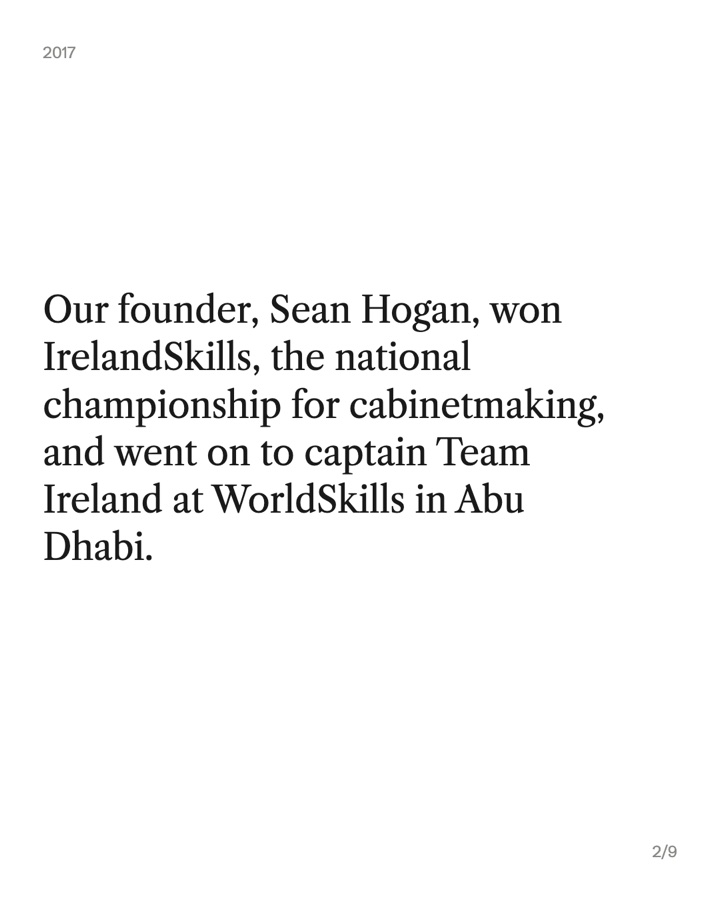
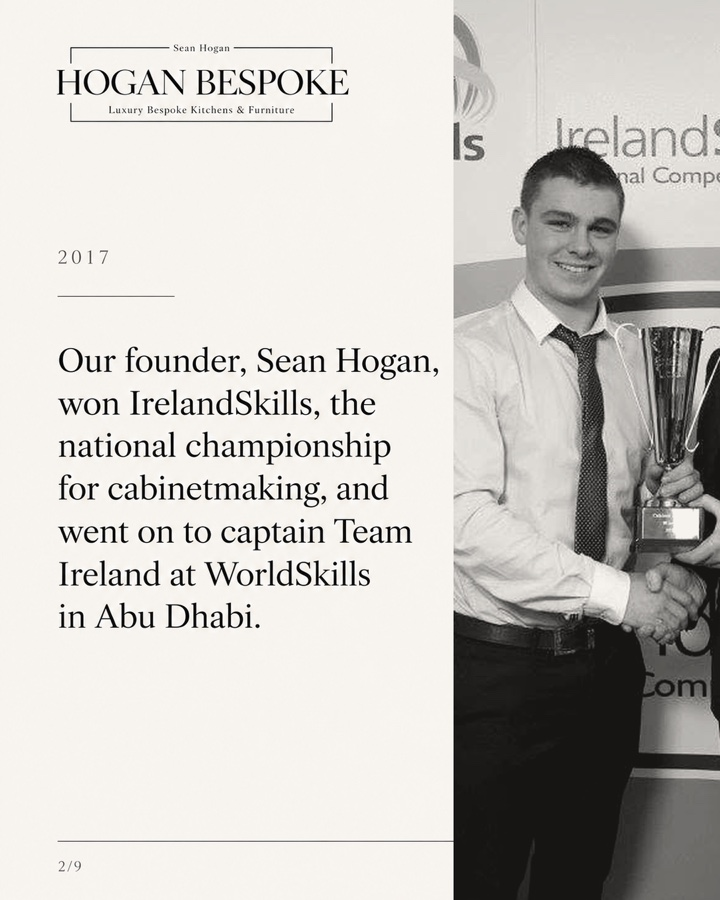
Hogan post 1: slide 2 with the IrelandSkills photo

diff --git a/public/approve/hogan-bespoke-x96pyh/index.html b/public/approve/hogan-bespoke-x96pyh/index.html
@@ -37,7 +37,7 @@
     <span>Eli Fátima · Irish Business Boosters · hello@irishbusinessboosters.com</span>
   </footer>
 </div>
-<script id="approval-data" type="application/json">{"page": "hogan-bespoke-x96pyh", "client": "Sean", "username": "hogan_bespoke_furniture", "avatar": "logo.png", "location": "Waterford, Ireland", "profile": {"id": "profile", "title": "New bio and highlights", "chips": ["Pick one bio"], "intro": "This is how your profile will look by the end of November: the new bio, the new highlight covers and the new posts at the top.", "about": "Both bios say who you are, what you make, and that you fit all over Ireland. Pick the one that sounds more like you.", "name": "Hogan Bespoke | Kitchens Ireland", "category": "Kitchen & cabinet designer", "link": "hoganbespokefurniture.com", "stats": ["175", "1,407", "609"], "choices": [{"id": "Bio A", "label": "Bio A · leads with the title", "bio": "IrelandSkills cabinetmaking champion 🏆\nBespoke kitchens, wardrobes & media walls\nHandmade in Waterford · Fitted all over Ireland\n👇 Get a quote"}, {"id": "Bio B", "label": "Bio B · softer", "bio": "Award-winning cabinetmaker 🏆\nKitchens, wardrobes, media walls & stairs\nHandmade in Waterford · Fitted all over Ireland\n👇 Get a quote"}], "highlights": [{"src": "covers/light-01-our-story.jpg", "name": "Our Story"}, {"src": "covers/light-02-kitchens.jpg", "name": "Kitchens"}, {"src": "covers/light-03-reviews.jpg", "name": "Reviews"}, {"src": "covers/light-04-wardrobes.jpg", "name": "Wardrobes"}, {"src": "covers/light-05-media-walls.jpg", "name": "Media Walls"}, {"src": "covers/light-06-commercial.jpg", "name": "Commercial"}, {"src": "covers/light-07-process.jpg", "name": "Process"}, {"src": "covers/light-08-joinery.jpg", "name": "Joinery"}, {"src": "covers/light-09-get-a-quote.jpg", "name": "Get a Quote"}], "grid": ["posts/08-commercial.jpg?v=3", "posts/07-christmas-media-wall.jpg?v=3", "posts/06-wardrobes.jpg?v=3", "posts/05-workshop.jpg?v=3", "posts/04-kitchens.jpg?v=3", "posts/03-the-reveal.jpg?v=3", "posts/02-what-we-make.jpg?v=3", "posts/01-slide-01.jpg?v=7", "posts/old-2026-trim-castle-hotel.jpg?v=3"]}, "postsTitle": "Your November posts", "postsIntro": "Eight posts, Mondays and Thursdays. Post 1 is fully designed; for the others you're seeing the cover, and we'll finish the slides as soon as the photos and details are in. The yellow bits are details we still need from you.", "posts": [{"id": "post-01", "date": "2026-11-02", "kind": "carousel", "title": "Our story", "chips": ["Carousel · 9 slides", "Pinned to the top"], "images": ["posts/01-slide-01.jpg?v=7", "posts/01-slide-02.jpg?v=3", "posts/01-slide-03.jpg?v=3", "posts/01-slide-04.jpg?v=3", "posts/01-slide-05.jpg?v=3", "posts/01-slide-06.jpg?v=3", "posts/01-slide-07.jpg?v=3", "posts/01-slide-08.jpg?v=3", "posts/01-slide-09.jpg?v=3"], "about": "Our first post: the story of the company, from the national title in 2017 to opening the workshop in August 2020 and everything we've built since. Mostly photos, with a short caption on each.", "need": "A photo from IrelandSkills 2017 for slide 3. Any old phone photo is fine.", "caption": "Our story, from a national title to kitchens all over Ireland.\n\nIn 2017, our founder Sean Hogan won IrelandSkills, the national championship for cabinetmaking, and went on to captain Team Ireland at WorldSkills in Abu Dhabi.\n\nIn August 2020, in the middle of a pandemic, we opened our workshop in Waterford.\n\nSince then we've designed and built kitchens, wardrobes, media walls and stairs for homes all over Ireland, and fitted out hotels and businesses like Trim Castle Hotel.\n\nEverything is still made by hand in our own workshop, to the same standard.\n\nOver the coming weeks we'll show you more of the work, and how it's made. Glad to have you here.", "tags": "#bespokekitchens #irishkitchens #handmadeinireland #bespokefurniture #waterford"}, {"id": "post-02", "date": "2026-11-05", "kind": "carousel", "title": "What we make", "chips": ["Carousel · 7 slides", "Pinned to the top", "Cover shown"], "images": ["posts/02-what-we-make.jpg?v=3"], "about": "A clear menu of everything you do, one slide per service. It stays pinned so anyone landing on your profile sees it straight away.", "need": "Is anything missing from the list? And do you do handleless kitchens?", "caption": "Everything we make is designed and built for one room only. Here's what that covers:\n\n· Kitchens: shaker, in-frame and handleless, painted or natural wood\n· Wardrobes: fitted, sliding and walk-in\n· Media walls: TV units, fireplaces, shelving and lighting\n· Stairs & joinery: staircases, drinks units, panelling and doors\n· Home offices and utility rooms\n· Commercial fit-outs: hotels, bars, offices and public buildings\n\nWe fit all over Ireland. Tell us what you're planning: send us a message or tap the link in our bio.", "tags": "#bespokefurniture #bespokekitchens #fittedwardrobes #mediawall #madeinireland"}, {"id": "post-03", "date": "2026-11-09", "kind": "reel", "length": "15 s", "title": "The reveal: navy kitchen", "chips": ["Reel"], "images": ["posts/03-the-reveal.jpg?v=3"], "about": "A slow walk into the navy kitchen, past the island, a drawer opening and closing softly. Calm music, no talking.", "need": "A video of this kitchen, if you have one (even a short phone clip). If not, I'll make it from the photos. Roughly how many weeks did it take?", "caption": "Every one of our kitchens is designed and built for one room only.\n\nThis one: navy painted shaker doors, premium stone worktops and a waterfall island. [X] weeks from first measure to final fit.\n\nPlanning a kitchen for 2027? Send us a message or tap the link in our bio.", "tags": "#bespokekitchens #navykitchen #irishkitchens #kitchendesignireland"}, {"id": "post-04", "date": "2026-11-12", "kind": "carousel", "title": "What we make: Kitchens", "chips": ["Carousel · 6 slides", "Series: What we make", "Cover shown"], "images": ["posts/04-kitchens.jpg?v=3"], "about": "The first of the \"What we make\" series. Slides: the styles (shaker, in-frame, handleless) · the materials · what's included · how long it takes · how to start.", "need": "How long does a kitchen usually take, from first visit to fitted? And which worktops do you use most?", "caption": "What goes into a Hogan Bespoke kitchen?\n\n· The style: shaker, in-frame or handleless\n· The wood: solid oak, ash or walnut, painted or natural\n· The worktop: [quartz, stone or solid wood]\n· The design: you see it in 3D before we cut a single board\n· The timing: around [X] weeks from first visit to final fit\n\nAll made in our workshop in Waterford and fitted by our own team, anywhere in Ireland.\n\nSwipe for the details 👉", "tags": "#bespokekitchens #shakerkitchen #irishkitchens #kitchendesignireland"}, {"id": "post-05", "date": "2026-11-16", "kind": "reel", "length": "15–20 s", "title": "From the workshop", "chips": ["Reel"], "images": ["posts/05-workshop.jpg?v=3"], "about": "Quick clips of hands and timber: cutting, shaping, sanding and assembling a door, with the real workshop sound. Ends on the finished piece.", "need": "We film this together on Tuesday 27 October. Five minutes at the bench is plenty.", "caption": "Before it's a kitchen door, it's a board of [timber] on our bench in Waterford.\n\nWe cut, shape, sand and assemble everything ourselves, so we control every millimetre, and nothing arrives on site that we haven't checked by hand.", "tags": "#handmadeinireland #cabinetmaker #bespokefurniture #waterford"}, {"id": "post-06", "date": "2026-11-19", "kind": "carousel", "title": "What we make: Wardrobes", "chips": ["Carousel · 6 slides", "Series: What we make", "Cover shown"], "images": ["posts/06-wardrobes.jpg?v=3"], "about": "Series, part 2. Slides: fitted · sliding · walk-in · children's rooms · what goes inside (rails, drawers, shoe racks, lighting).", "caption": "Fitted, sliding or walk-in: every wardrobe we make is built around the room and what goes in it.\n\nInside, you choose: hanging rails and pull-down rails, drawers, shoe racks, shelving and LED lighting.\n\nSwipe to see the options 👉\n\nThinking about a wardrobe? Send us a message with a photo of the space.", "tags": "#fittedwardrobes #walkinwardrobe #bespokefurniture #irishhomes"}, {"id": "post-07", "date": "2026-11-23", "kind": "reel", "length": "10–15 s", "title": "The room you'll spend Christmas in", "chips": ["Reel", "Christmas"], "images": ["posts/07-christmas-media-wall.jpg?v=3"], "about": "Starts on a detail (the LED light, a shelf) and opens out to the whole media wall, with the fire on.", "need": "A video of a media wall with the lights or fire on, if you have one.", "caption": "The room everyone ends up in at Christmas.\n\nThis media wall hides every cable, frames the fire and lights up the shelves, all built to fit the room to the millimetre.\n\nToo late for this Christmas? Plenty of time for the next one. Send us a message.", "tags": "#mediawall #livingroomideas #irishhomes #christmasathome"}, {"id": "post-08", "date": "2026-11-26", "kind": "carousel", "title": "What we make: Commercial", "chips": ["Carousel · 6 slides", "Series: What we make", "Cover shown"], "images": ["posts/08-commercial.jpg?v=3"], "about": "Series, part 3: the Trim Castle Hotel fit-out, with the other businesses you've built for on the last slide.", "need": "Are you happy for us to name The Fitzwilton, Bausch + Lomb, Clonmel Credit Union and the Garda station? I can leave out any of them.", "caption": "It's not only homes.\n\nWe recently completed the fit-out at Trim Castle Hotel: [what we built, e.g. the bar and back bar], made in our Waterford workshop and fitted on site.\n\nOver the years we've also built for The Fitzwilton Hotel, Bausch + Lomb, Clonmel Credit Union and Waterford Garda Station.\n\nPlanning a fit-out? Email sales@hoganbespoke.com.", "tags": "#commercialjoinery #hotelinteriors #shopfitting #madeinireland"}]}</script>
+<script id="approval-data" type="application/json">{"page": "hogan-bespoke-x96pyh", "client": "Sean", "username": "hogan_bespoke_furniture", "avatar": "logo.png", "location": "Waterford, Ireland", "profile": {"id": "profile", "title": "New bio and highlights", "chips": ["Pick one bio"], "intro": "This is how your profile will look by the end of November: the new bio, the new highlight covers and the new posts at the top.", "about": "Both bios say who you are, what you make, and that you fit all over Ireland. Pick the one that sounds more like you.", "name": "Hogan Bespoke | Kitchens Ireland", "category": "Kitchen & cabinet designer", "link": "hoganbespokefurniture.com", "stats": ["175", "1,407", "609"], "choices": [{"id": "Bio A", "label": "Bio A · leads with the title", "bio": "IrelandSkills cabinetmaking champion 🏆\nBespoke kitchens, wardrobes & media walls\nHandmade in Waterford · Fitted all over Ireland\n👇 Get a quote"}, {"id": "Bio B", "label": "Bio B · softer", "bio": "Award-winning cabinetmaker 🏆\nKitchens, wardrobes, media walls & stairs\nHandmade in Waterford · Fitted all over Ireland\n👇 Get a quote"}], "highlights": [{"src": "covers/light-01-our-story.jpg", "name": "Our Story"}, {"src": "covers/light-02-kitchens.jpg", "name": "Kitchens"}, {"src": "covers/light-03-reviews.jpg", "name": "Reviews"}, {"src": "covers/light-04-wardrobes.jpg", "name": "Wardrobes"}, {"src": "covers/light-05-media-walls.jpg", "name": "Media Walls"}, {"src": "covers/light-06-commercial.jpg", "name": "Commercial"}, {"src": "covers/light-07-process.jpg", "name": "Process"}, {"src": "covers/light-08-joinery.jpg", "name": "Joinery"}, {"src": "covers/light-09-get-a-quote.jpg", "name": "Get a Quote"}], "grid": ["posts/08-commercial.jpg?v=3", "posts/07-christmas-media-wall.jpg?v=3", "posts/06-wardrobes.jpg?v=3", "posts/05-workshop.jpg?v=3", "posts/04-kitchens.jpg?v=3", "posts/03-the-reveal.jpg?v=3", "posts/02-what-we-make.jpg?v=3", "posts/01-slide-01.jpg?v=8", "posts/old-2026-trim-castle-hotel.jpg?v=3"]}, "postsTitle": "Your November posts", "postsIntro": "Eight posts, Mondays and Thursdays. Post 1 is fully designed; for the others you're seeing the cover, and we'll finish the slides as soon as the photos and details are in. The yellow bits are details we still need from you.", "posts": [{"id": "post-01", "date": "2026-11-02", "kind": "carousel", "title": "Our story", "chips": ["Carousel · 9 slides", "Pinned to the top"], "images": ["posts/01-slide-01.jpg?v=8", "posts/01-slide-02.jpg?v=8", "posts/01-slide-03.jpg?v=3", "posts/01-slide-04.jpg?v=3", "posts/01-slide-05.jpg?v=3", "posts/01-slide-06.jpg?v=3", "posts/01-slide-07.jpg?v=3", "posts/01-slide-08.jpg?v=3", "posts/01-slide-09.jpg?v=3"], "about": "Our first post: the story of the company, from the national title in 2017 to opening the workshop in August 2020 and everything we've built since. Mostly photos, with a short caption on each.", "need": "A photo from IrelandSkills 2017 for slide 3. Any old phone photo is fine.", "caption": "Our story, from a national title to kitchens all over Ireland.\n\nIn 2017, our founder Sean Hogan won IrelandSkills, the national championship for cabinetmaking, and went on to captain Team Ireland at WorldSkills in Abu Dhabi.\n\nIn August 2020, in the middle of a pandemic, we opened our workshop in Waterford.\n\nSince then we've designed and built kitchens, wardrobes, media walls and stairs for homes all over Ireland, and fitted out hotels and businesses like Trim Castle Hotel.\n\nEverything is still made by hand in our own workshop, to the same standard.\n\nOver the coming weeks we'll show you more of the work, and how it's made. Glad to have you here.", "tags": "#bespokekitchens #irishkitchens #handmadeinireland #bespokefurniture #waterford"}, {"id": "post-02", "date": "2026-11-05", "kind": "carousel", "title": "What we make", "chips": ["Carousel · 7 slides", "Pinned to the top", "Cover shown"], "images": ["posts/02-what-we-make.jpg?v=3"], "about": "A clear menu of everything you do, one slide per service. It stays pinned so anyone landing on your profile sees it straight away.", "need": "Is anything missing from the list? And do you do handleless kitchens?", "caption": "Everything we make is designed and built for one room only. Here's what that covers:\n\n· Kitchens: shaker, in-frame and handleless, painted or natural wood\n· Wardrobes: fitted, sliding and walk-in\n· Media walls: TV units, fireplaces, shelving and lighting\n· Stairs & joinery: staircases, drinks units, panelling and doors\n· Home offices and utility rooms\n· Commercial fit-outs: hotels, bars, offices and public buildings\n\nWe fit all over Ireland. Tell us what you're planning: send us a message or tap the link in our bio.", "tags": "#bespokefurniture #bespokekitchens #fittedwardrobes #mediawall #madeinireland"}, {"id": "post-03", "date": "2026-11-09", "kind": "reel", "length": "15 s", "title": "The reveal: navy kitchen", "chips": ["Reel"], "images": ["posts/03-the-reveal.jpg?v=3"], "about": "A slow walk into the navy kitchen, past the island, a drawer opening and closing softly. Calm music, no talking.", "need": "A video of this kitchen, if you have one (even a short phone clip). If not, I'll make it from the photos. Roughly how many weeks did it take?", "caption": "Every one of our kitchens is designed and built for one room only.\n\nThis one: navy painted shaker doors, premium stone worktops and a waterfall island. [X] weeks from first measure to final fit.\n\nPlanning a kitchen for 2027? Send us a message or tap the link in our bio.", "tags": "#bespokekitchens #navykitchen #irishkitchens #kitchendesignireland"}, {"id": "post-04", "date": "2026-11-12", "kind": "carousel", "title": "What we make: Kitchens", "chips": ["Carousel · 6 slides", "Series: What we make", "Cover shown"], "images": ["posts/04-kitchens.jpg?v=3"], "about": "The first of the \"What we make\" series. Slides: the styles (shaker, in-frame, handleless) · the materials · what's included · how long it takes · how to start.", "need": "How long does a kitchen usually take, from first visit to fitted? And which worktops do you use most?", "caption": "What goes into a Hogan Bespoke kitchen?\n\n· The style: shaker, in-frame or handleless\n· The wood: solid oak, ash or walnut, painted or natural\n· The worktop: [quartz, stone or solid wood]\n· The design: you see it in 3D before we cut a single board\n· The timing: around [X] weeks from first visit to final fit\n\nAll made in our workshop in Waterford and fitted by our own team, anywhere in Ireland.\n\nSwipe for the details 👉", "tags": "#bespokekitchens #shakerkitchen #irishkitchens #kitchendesignireland"}, {"id": "post-05", "date": "2026-11-16", "kind": "reel", "length": "15–20 s", "title": "From the workshop", "chips": ["Reel"], "images": ["posts/05-workshop.jpg?v=3"], "about": "Quick clips of hands and timber: cutting, shaping, sanding and assembling a door, with the real workshop sound. Ends on the finished piece.", "need": "We film this together on Tuesday 27 October. Five minutes at the bench is plenty.", "caption": "Before it's a kitchen door, it's a board of [timber] on our bench in Waterford.\n\nWe cut, shape, sand and assemble everything ourselves, so we control every millimetre, and nothing arrives on site that we haven't checked by hand.", "tags": "#handmadeinireland #cabinetmaker #bespokefurniture #waterford"}, {"id": "post-06", "date": "2026-11-19", "kind": "carousel", "title": "What we make: Wardrobes", "chips": ["Carousel · 6 slides", "Series: What we make", "Cover shown"], "images": ["posts/06-wardrobes.jpg?v=3"], "about": "Series, part 2. Slides: fitted · sliding · walk-in · children's rooms · what goes inside (rails, drawers, shoe racks, lighting).", "caption": "Fitted, sliding or walk-in: every wardrobe we make is built around the room and what goes in it.\n\nInside, you choose: hanging rails and pull-down rails, drawers, shoe racks, shelving and LED lighting.\n\nSwipe to see the options 👉\n\nThinking about a wardrobe? Send us a message with a photo of the space.", "tags": "#fittedwardrobes #walkinwardrobe #bespokefurniture #irishhomes"}, {"id": "post-07", "date": "2026-11-23", "kind": "reel", "length": "10–15 s", "title": "The room you'll spend Christmas in", "chips": ["Reel", "Christmas"], "images": ["posts/07-christmas-media-wall.jpg?v=3"], "about": "Starts on a detail (the LED light, a shelf) and opens out to the whole media wall, with the fire on.", "need": "A video of a media wall with the lights or fire on, if you have one.", "caption": "The room everyone ends up in at Christmas.\n\nThis media wall hides every cable, frames the fire and lights up the shelves, all built to fit the room to the millimetre.\n\nToo late for this Christmas? Plenty of time for the next one. Send us a message.", "tags": "#mediawall #livingroomideas #irishhomes #christmasathome"}, {"id": "post-08", "date": "2026-11-26", "kind": "carousel", "title": "What we make: Commercial", "chips": ["Carousel · 6 slides", "Series: What we make", "Cover shown"], "images": ["posts/08-commercial.jpg?v=3"], "about": "Series, part 3: the Trim Castle Hotel fit-out, with the other businesses you've built for on the last slide.", "need": "Are you happy for us to name The Fitzwilton, Bausch + Lomb, Clonmel Credit Union and the Garda station? I can leave out any of them.", "caption": "It's not only homes.\n\nWe recently completed the fit-out at Trim Castle Hotel: [what we built, e.g. the bar and back bar], made in our Waterford workshop and fitted on site.\n\nOver the years we've also built for The Fitzwilton Hotel, Bausch + Lomb, Clonmel Credit Union and Waterford Garda Station.\n\nPlanning a fit-out? Email sales@hoganbespoke.com.", "tags": "#commercialjoinery #hotelinteriors #shopfitting #madeinireland"}]}</script>
 <script src="/approve/_assets/approve.js?v=3"></script>
 </body>
 </html>
